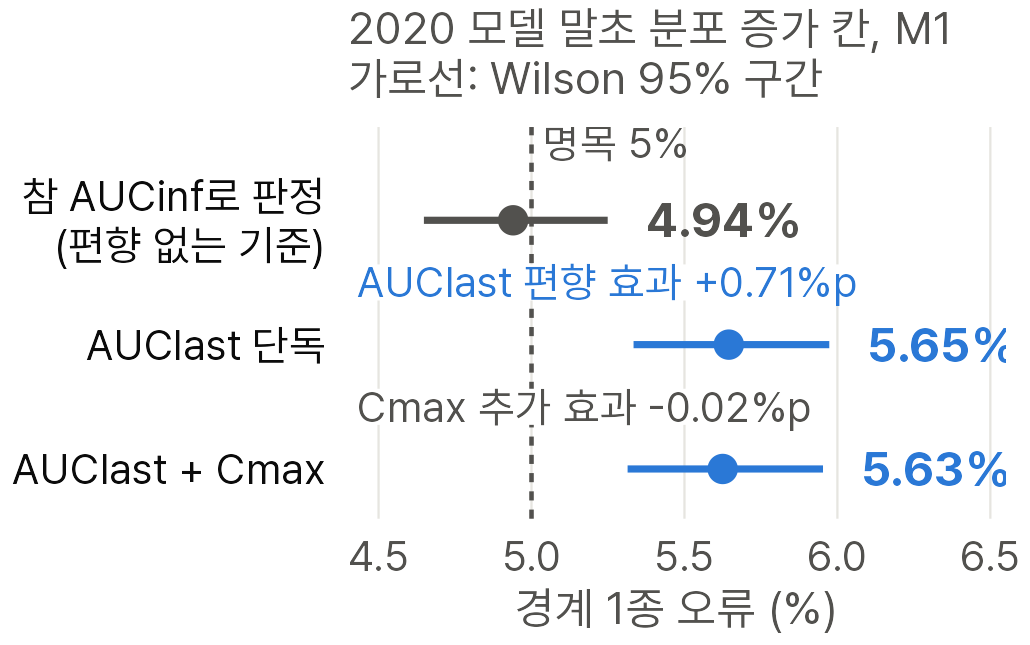
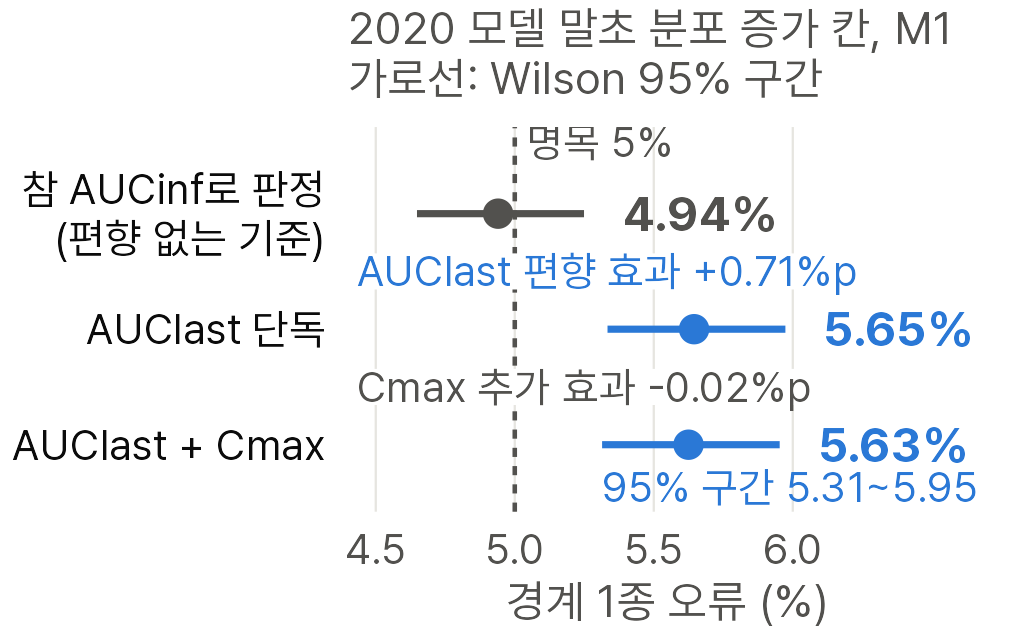
Core deck v1.1 (WIP): appendices A4a, A4b, A6, A8 finished; D-063 attributes the PKM12350/PKM14161 arm data to Li 2020 Table 3 as in the config
Claude-Session: https://claude.ai/code/session_01VcVRPzFxTqkW2KRC1Wkk1r

diff --git a/DECISIONS.md b/DECISIONS.md
@@ -399,5 +399,5 @@
 - 대표 대상자: 2016 모델 id 8070(중앙값, 99.35%), 9220(5백분위, 96.37%), 10279(최솟값, 84.78%); 2020 모델 14636, 12784, 11228(84.32%, λz 산출 불가라 비구획 외삽선 없음). 비구획 외삽 면적 / 참 외삽 면적은 2016 모델 7.99, 4.00, 0.79배다(최솟값 대상자는 비구획 외삽이 오히려 작다). S7 캡션은 모집단 중앙값(비구획 외삽 비율 2.7% 대 참 0.65%)을 적고 대상자별 배수는 패널에 그대로 적는다.
 - 지시 문구와 결과가 다른 곳(결과 파일 값을 쓴다): 흐름 ①의 "대상자 3분의 1 이상"은 2020 모델이 33.2%로 3분의 1에 못 미쳐 제목·카드에 범위 "33~39%"로 적었다. S8 제목은 사전 등록 규칙의 두 번째 문구(모든 경우 84% 이상이 아님)를 따랐다.
 - 인용 확인 상태: FDA BLA 761055 임상약리 리뷰의 "very steep target-mediated phase"와 쪽수(p.48)는 검색 요약으로만 확인했고 원문 PDF는 분석 환경에서 열리지 않았다(S4 캡션에 "검색 발췌, 원문·쪽수 미대조"). 같은 내용은 Kovalenko 2020 결과 절에 있어 함께 인용했다. EMA 생동 지침의 80% 기준도 검색 발췌다.
-- 직전 지시(포지션 페이퍼 연계 보완)의 결과는 저장소에 없다: 별첨 A13(RA 포지션 페이퍼 7절 대응표)은 넣지 않고, 별첨 A6에서는 저장소에 있는 PKM12350(FDA 리뷰 Table 4.2.c)·PKM14161(Clot 2021 Table 5) 자료만 쓰며 TYENNE BMER(BLA 761275)와 MSB11456 피하 초록 항목은 뺐다(지시 §5 "없으면 생략").
+- 직전 지시(포지션 페이퍼 연계 보완)의 결과는 저장소에 없다: 별첨 A13(RA 포지션 페이퍼 7절 대응표)은 넣지 않고, 별첨 A6에서는 저장소에 있는 PKM12350 대조군 평균비(FDA 리뷰 Table 4.2.c)와 PKM12350·PKM14161 arm별 관측 AUClast(Li 2020 Table 3, config/design_clot2021.yaml arm_checks_300mg) 자료만 쓰며 TYENNE BMER(BLA 761275)와 MSB11456 피하 초록 항목은 뺐다(지시 §5 "없으면 생략").
 - 채혈 일정 결정 기준은 "결과 보고 전에 정한 기준"으로 적는다(첫 일정 모의 뒤 결과 보고 전에 정함; D-062의 문구 정정과 같음).
